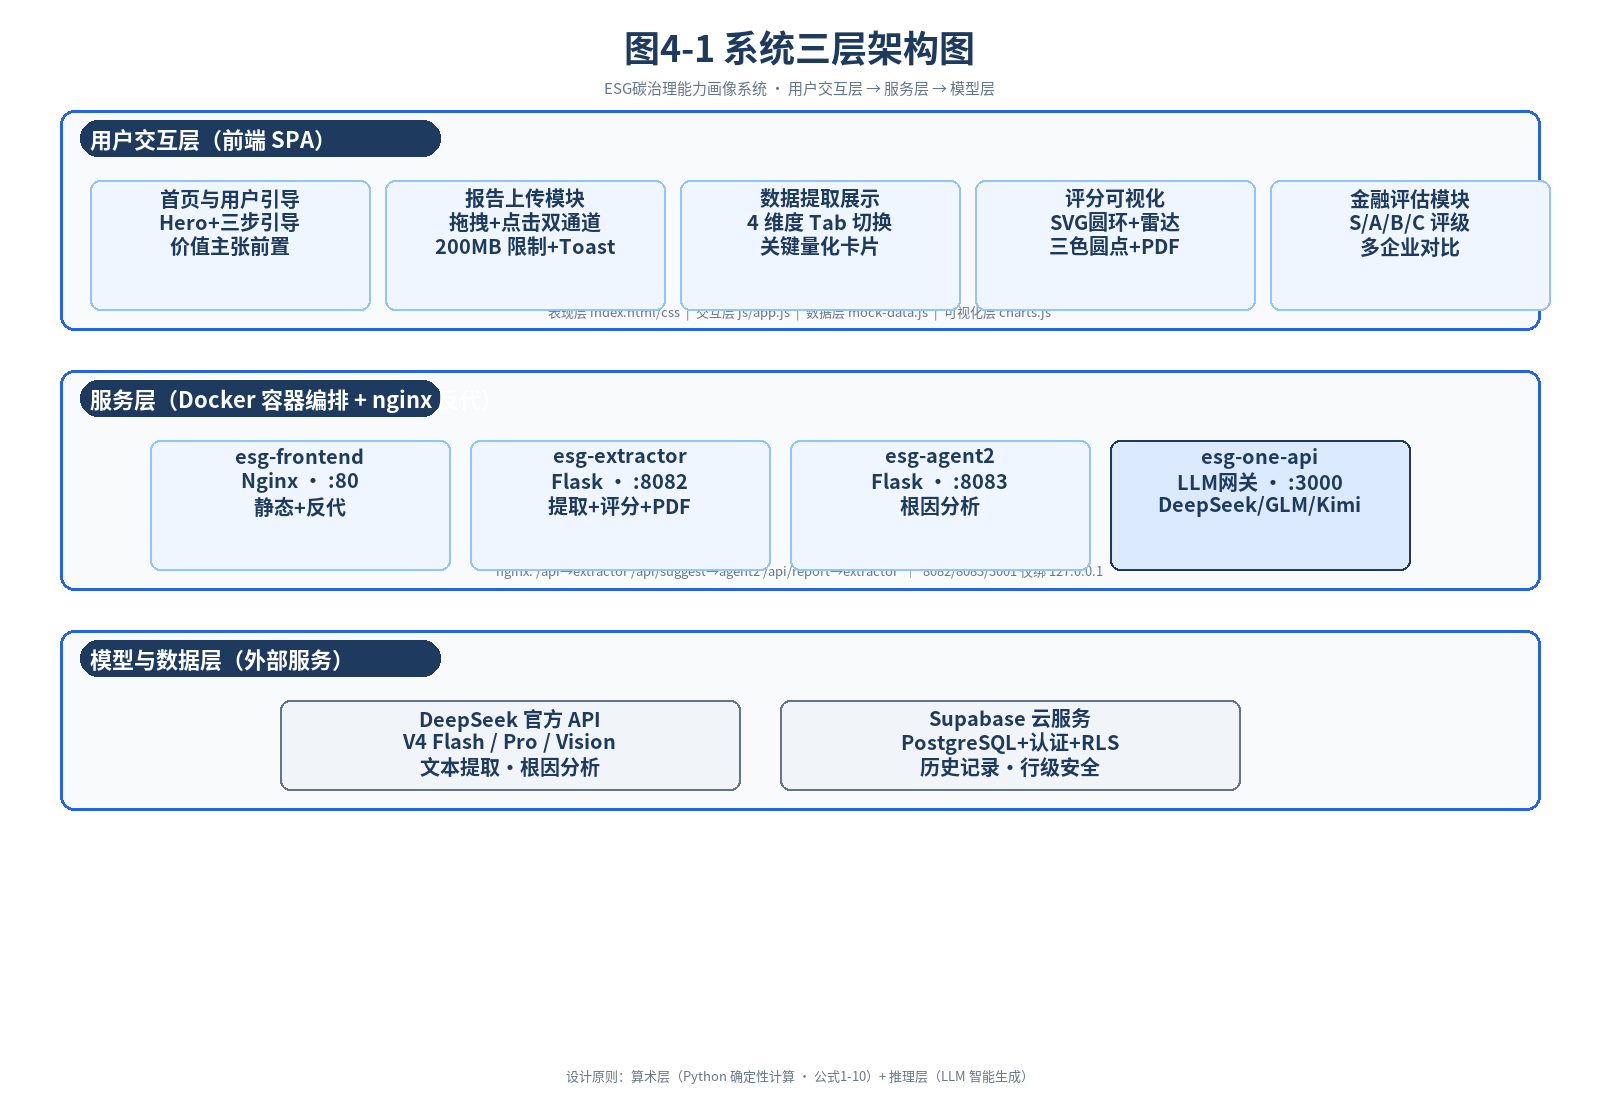
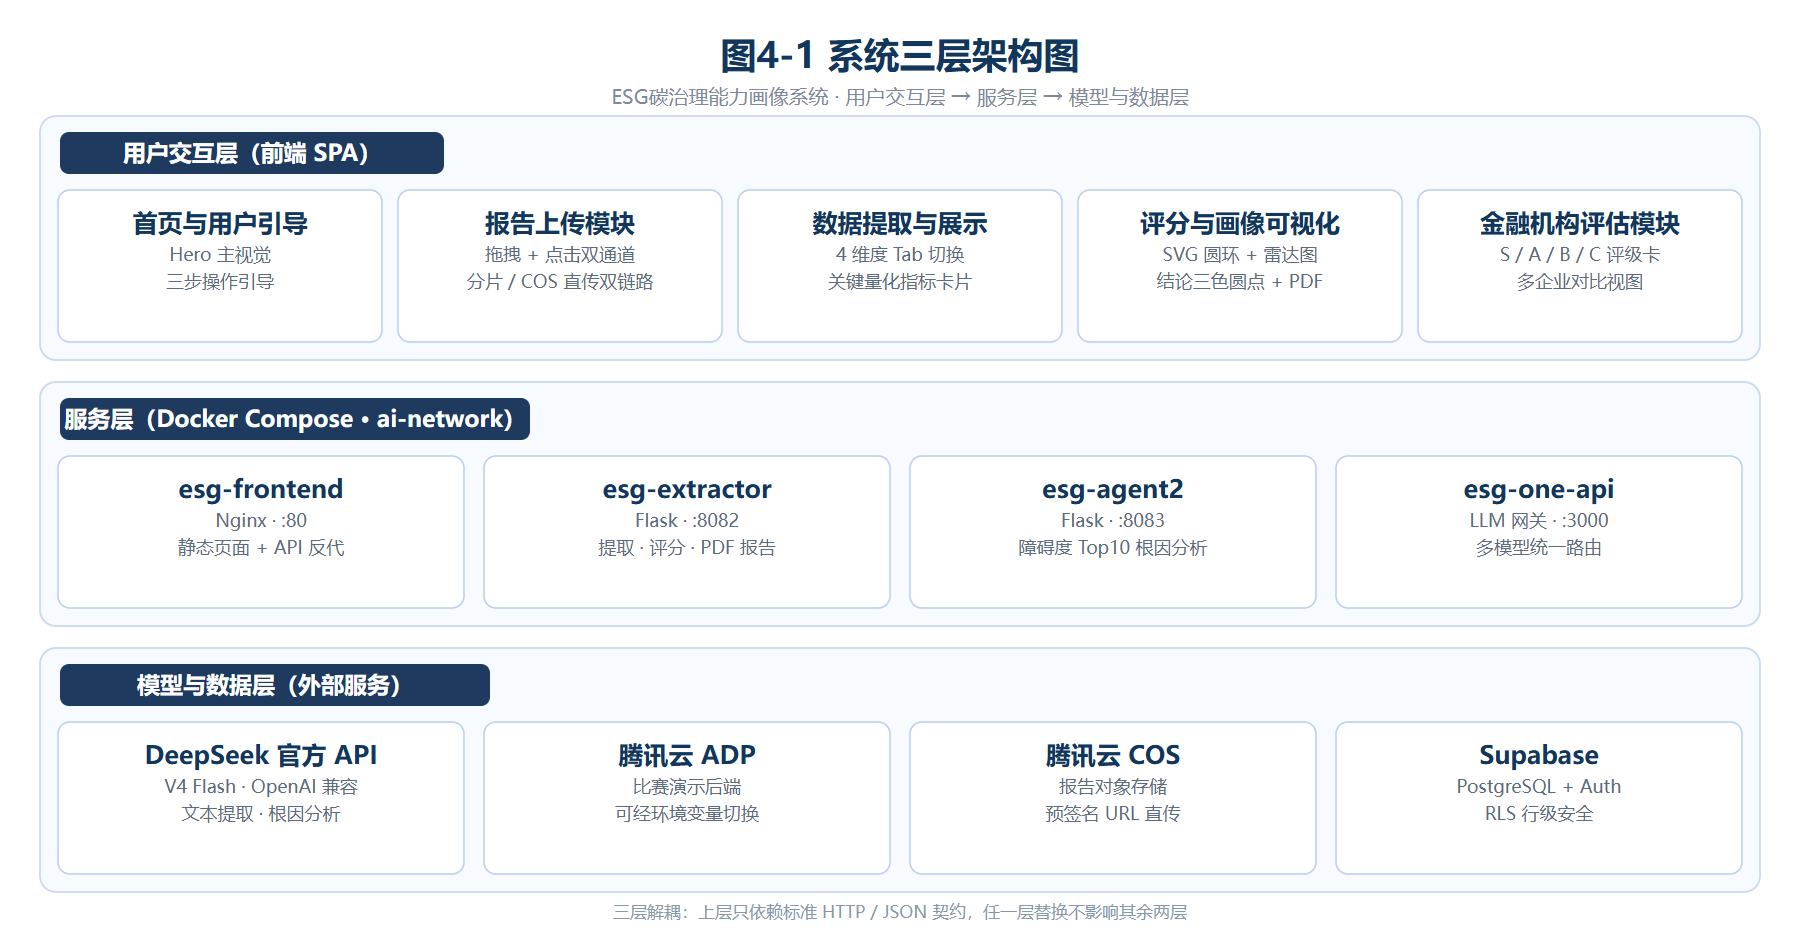
docs(arch): 重绘架构图纸并回填 docs/architecture
- 图 4-1 / 4-2 / 4-3 按 v114 现状重绘：Cloudflare 代理（橙云 + SSL Flexible，替代已退役的
  Tunnel 方案）、腾讯云 COS 直传链路、四容器（esg-frontend / esg-extractor / esg-agent2 /
  esg-one-api）、SSH 命名隧道运维通道、Supabase 定时保活。
- 图号按正文首次出现顺序重排：4.2 → 图 4-1、4.4 → 图 4-2、4.5 → 图 4-3
  （原稿 4.4 / 4.5 两图编号与出现顺序相反）。
- 每张图提供 SVG 矢量源 + 300 dpi PNG（原内嵌图仅 108–148 dpi，印刷发虚）。
- ARCHITECTURE.md 同步更新图引用与改图约定；CHANGELOG 补记。

diff --git a/ARCHITECTURE.md b/ARCHITECTURE.md
@@ -2,6 +2,8 @@
 
 > 本文档描述系统的设计原则、分层结构、数据流水线、容器编排、评分算法与部署形态。
 > 配套图纸见 [`docs/architecture/`](docs/architecture/)（论文图 4-1 / 4-2 / 4-3）。
+> 图号按正文首次出现顺序编排（4.2 → 图 4-1、4.4 → 图 4-2、4.5 → 图 4-3）；
+> 每张图同时提供 `.svg` 矢量源与 300 dpi `.png`，改图请改 SVG 后重新导出。
 
 ---
 
@@ -73,7 +75,7 @@
 
 ## 3. 数据流水线
 
-![智能体数据处理流水线](docs/architecture/图4-2_智能体数据处理流水线.png)
+![智能体数据处理流水线](docs/architecture/图4-3_智能体数据处理流水线.png)
 
 从原始报告到最终画像的 12 步：
 
@@ -107,7 +109,7 @@ flowchart TD
 
 ## 4. 容器编排与网络
 
-![容器部署与网络架构](docs/architecture/图4-3_容器部署与网络架构.png)
+![容器部署与网络架构](docs/architecture/图4-2_容器部署与网络架构.png)
 
 ### 4.1 四容器职责
 

diff --git a/CHANGELOG.md b/CHANGELOG.md
@@ -6,6 +6,12 @@
 
 ---
 
+## 文档 — 架构图纸重绘
+
+- 重绘论文图 4-1 / 4-2 / 4-3：同步 Cloudflare 代理（替代已退役的 Tunnel 方案）、腾讯云 COS 直传、四容器（含 one-api）与 SSH 命名隧道等 v114 现状。
+- 图号按正文首次出现顺序重排：4.2 → 图 4-1、4.4 → 图 4-2、4.5 → 图 4-3（原稿 4.4 / 4.5 两图编号与出现顺序相反）。
+- `docs/architecture/` 每张图提供 `.svg` 矢量源与 300 dpi `.png`（此前内嵌图仅 108–148 dpi，印刷会发虚）。
+
 ## v=114 — COS 直传
 
 - 大文件改由浏览器凭**预签名 PUT URL** 直传对象存储，服务器不中转；99.8MB 报告上传由约 4 分半降到 **≈37 秒**。
